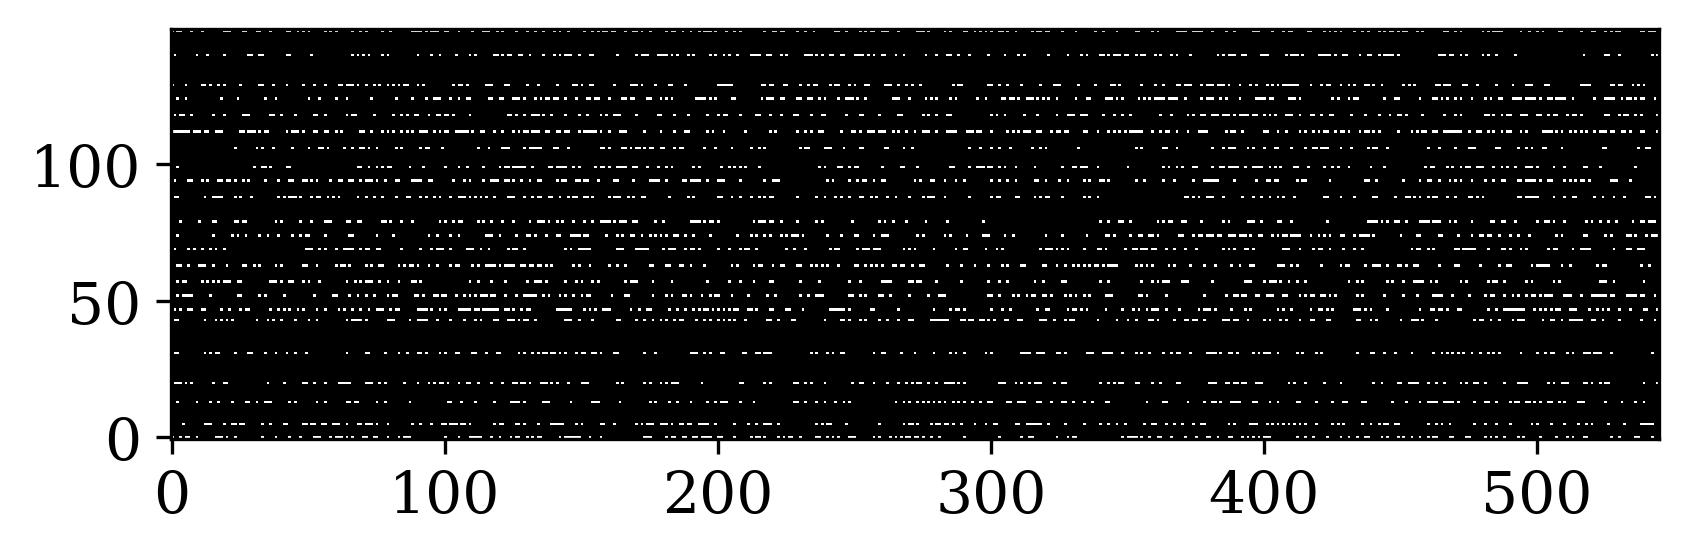
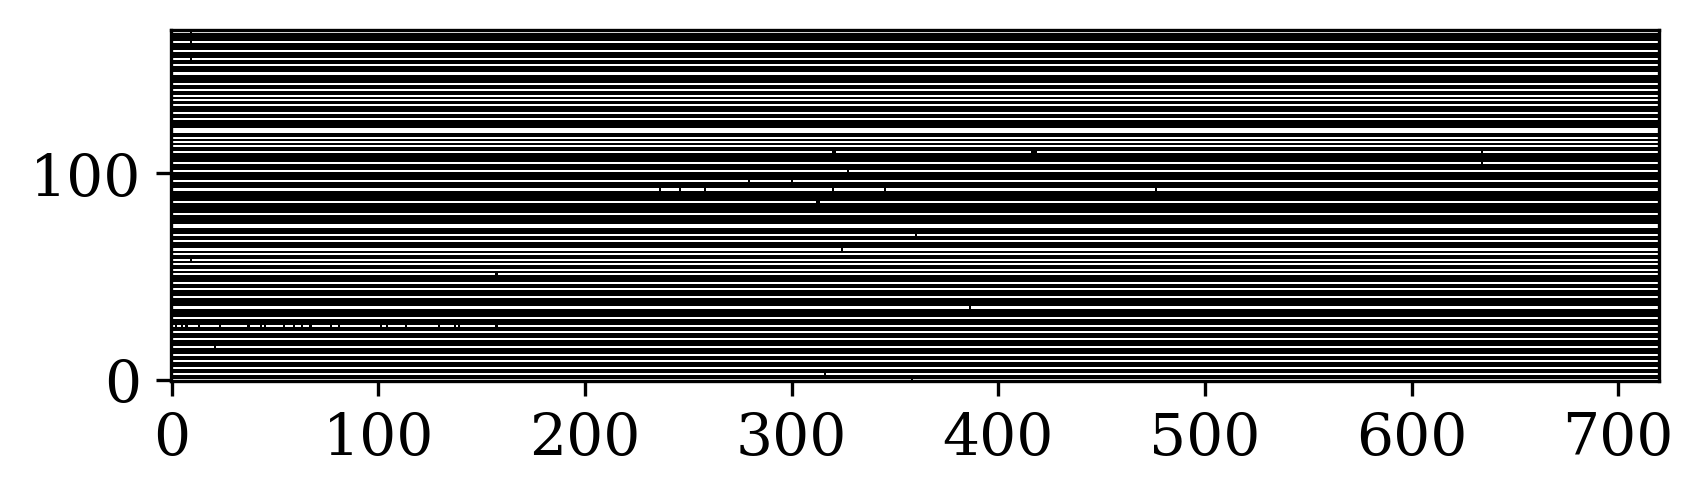
Update it as FFT implementation and it's super fast

Changed region(s): [[0.0, 0.0302, 0.9858, 0.9375]]

diff --git a/ASMNN.py b/ASMNN.py
@@ -6,45 +6,85 @@ import numpy as np
 import pandas as pd
 import time
 
+def fft_four_convs(Dp, Mp, k_cong, k_free):
+    """
+    Compute
+        sum_cong = conv2d(Dp, k_cong)
+        sum_free = conv2d(Dp, k_free)
+        N_cong   = conv2d(Mp, k_cong)
+        N_free   = conv2d(Mp, k_free)
+    all via FFT.
+    
+    Dp, Mp:   (B, C, H, W)
+    k_cong,:  (F, C, Kh, Kw)
+    k_free:   (F, C, Kh, Kw)  (here F=1, but generalizable)
+    returns:  sum_cong, N_cong, sum_free, N_free each of shape (B, F, H-Kh+1, W-Kw+1)
+    """
+    B, C, H, W        = Dp.shape
+    F, _, Kh, Kw      = k_cong.shape
+    Fh, Fw            = H + Kh - 1, W + Kw - 1
+    device, dtype     = Dp.device, Dp.dtype
 
-def fill_space_time_matrix(raw_data, dx = 0.1, dt = 10, lane = 1, data_type = 'speed'):
-    data = raw_data[['milemarker', 'time_unix_fix', f'lane{lane}_{data_type}']].copy()
-    min_milemarker = round(data['milemarker'].min(),0)
-    max_milemarker = round(data['milemarker'].max(),0)
-    min_time_unix = int(data['time_unix_fix'].min())
-    max_time_unix = int(data['time_unix_fix'].max()) + 30
-    milemarkers = np.round(np.arange(min_milemarker, max_milemarker, dx), 2)
-    time_range_unix = np.round(np.arange(min_time_unix, max_time_unix, dt), 2)
-    matrix = pd.DataFrame(index=time_range_unix, columns=milemarkers)
-    for index, row in data.iterrows():
-        time_index = row['time_unix_fix']
-        milemarker_index = row['milemarker']
-        nearest_time = matrix.index.get_indexer([time_index], method='nearest')[0]
-        nearest_milemarker = matrix.columns.get_indexer([milemarker_index], method='nearest')[0]
-        matrix.iloc[nearest_time, nearest_milemarker] = row[f'lane{lane}_{data_type}']
-    return matrix
+    # ——— pad inputs ———
+    Dp_pad = torch.zeros(B, C, Fh, Fw, device=device, dtype=dtype)
+    Mp_pad = torch.zeros(B, C, Fh, Fw, device=device, dtype=dtype)
+    Dp_pad[..., :H, :W] = Dp
+    Mp_pad[..., :H, :W] = Mp
+
+    # ——— pad kernels ———
+    k1_pad = torch.zeros(F, C, Fh, Fw, device=device, dtype=dtype)
+    k2_pad = torch.zeros(F, C, Fh, Fw, device=device, dtype=dtype)
+    k1_pad[..., :Kh, :Kw] = k_cong
+    k2_pad[..., :Kh, :Kw] = k_free
+
+    # ——— FFT both inputs and kernels ———
+    # real→complex FFT over the last two dims
+    Df  = torch.fft.rfftn(Dp_pad, dim=(-2, -1), s=(Fh, Fw))
+    Mf  = torch.fft.rfftn(Mp_pad, dim=(-2, -1), s=(Fh, Fw))
+    Kf1 = torch.fft.rfftn(k1_pad, dim=(-2, -1), s=(Fh, Fw))
+    Kf2 = torch.fft.rfftn(k2_pad, dim=(-2, -1), s=(Fh, Fw))
+
+    # ——— pointwise multiply in freq domain ———
+    Y1 = Df * Kf1    # for sum_cong
+    Y2 = Df * Kf2    # for sum_free
+    Z1 = Mf * Kf1    # for N_cong
+    Z2 = Mf * Kf2    # for N_free
+
+    # ——— inverse FFT back to real ———
+    y1 = torch.fft.irfftn(Y1, dim=(-2, -1), s=(Fh, Fw))
+    y2 = torch.fft.irfftn(Y2, dim=(-2, -1), s=(Fh, Fw))
+    z1 = torch.fft.irfftn(Z1, dim=(-2, -1), s=(Fh, Fw))
+    z2 = torch.fft.irfftn(Z2, dim=(-2, -1), s=(Fh, Fw))
+
+    # ——— crop “valid” region ———
+    oh, ow = H - Kh + 1, W - Kw + 1
+    sum_cong = y1[..., Kh-1:Kh-1+oh, Kw-1:Kw-1+ow]
+    sum_free = y2[..., Kh-1:Kh-1+oh, Kw-1:Kw-1+ow]
+    N_cong   = z1[..., Kh-1:Kh-1+oh, Kw-1:Kw-1+ow]
+    N_free   = z2[..., Kh-1:Kh-1+oh, Kw-1:Kw-1+ow]
+
+    return sum_cong, N_cong, sum_free, N_free
 
 class AdaptiveSmoothing(nn.Module):
     def __init__(self,
-                 smoothing_time_window: float,
-                 smoothing_space_window: float,
+                 kernel_time_window: float,
+                 kernel_space_window: float,
                  dx: float,
                  dt: float,
                  init_delta: float = 0.10, # mile
                  init_tau: float = 9.0, # seconds
-                 init_c_cong: float = -12.0,
-                 init_c_free: float = 45.0,
-                 init_v_thr: float = 30.0,
+                 init_c_cong: float = 12.0,
+                 init_c_free: float = -45.0,
+                 init_v_thr: float = 40.0,
                  init_v_delta: float = 10.0):
         super().__init__()
-        self.half_t = int(smoothing_time_window / dt)
-        self.half_x = int(smoothing_space_window / dx)
+        self.size_t = int(kernel_time_window / dt)
+        self.size_x = int(kernel_space_window / dx)
         self.dt = dt
         self.dx = dx
 
-        t_offs = torch.arange(-self.half_t, self.half_t + 1) * dt
-        x_offs = torch.arange(-self.half_x, self.half_x + 1) * dx
-        print(f"t_offs: {t_offs}, x_offs: {x_offs}")
+        t_offs = torch.arange(-self.size_t, self.size_t + 1) * dt
+        x_offs = torch.arange(-self.size_x, self.size_x + 1) * dx
         T, X = torch.meshgrid(t_offs, x_offs, indexing='ij')
         self.register_buffer('T_offsets', T.float())
         self.register_buffer('X_offsets', X.float())
@@ -64,9 +104,6 @@ class AdaptiveSmoothing(nn.Module):
             raw_data = raw_data.unsqueeze(1)
 
         mask = (~raw_data.isnan()).float()
-        plt.imshow(mask[0, 0], cmap='gray', interpolation='nearest', origin='lower')
-        plt.savefig('figures/mask.png', dpi=300, bbox_inches='tight')
-        plt.close()
         data = torch.nan_to_num(raw_data, nan=0.0)
 
         c_cong_s = self.c_cong / 3600.0
@@ -81,15 +118,16 @@ class AdaptiveSmoothing(nn.Module):
         k_cong = k_cong.unsqueeze(0).unsqueeze(0)  # (1,1,Kt,Kx)
         k_free = k_free.unsqueeze(0).unsqueeze(0)
 
-        pad = (self.half_x, self.half_x, self.half_t, self.half_t)
-        print(f"pad: {pad}")
+        pad = (self.size_x, self.size_x, self.size_t, self.size_t)
         Dp = F.pad(data, pad, value=0.0)
         Mp = F.pad(mask, pad, value=0.0)
 
-        sum_cong = F.conv2d(Dp, k_cong)
-        N_cong   = F.conv2d(Mp, k_cong)
-        sum_free = F.conv2d(Dp, k_free)
-        N_free   = F.conv2d(Mp, k_free)
+        # sum_cong = F.conv2d(Dp, k_cong)
+        # N_cong   = F.conv2d(Mp, k_cong)
+        # sum_free = F.conv2d(Dp, k_free)
+        # N_free   = F.conv2d(Mp, k_free)
+        # use FFT to compute the convolutions
+        sum_cong, N_cong, sum_free, N_free = fft_four_convs(Dp, Mp, k_cong, k_free)
 
         v_cong = sum_cong / (N_cong)
         v_free = sum_free / (N_free)
@@ -108,28 +146,19 @@ class AdaptiveSmoothing(nn.Module):
 def main():
     # device = torch.device("cuda" if torch.cuda.is_available() else "cpu")
     device = torch.device("cpu")
-    # # raw_data = pd.read_csv('data/2023-10-26.csv')
-    # raw_data = pd.read_csv('data/2025-04-09.csv', low_memory=False)
-    # speed = fill_space_time_matrix(raw_data, dx = 0.1, dt = 30, lane = 2, data_type = 'speed')
-    # output = speed.T.values.copy()
-    # # make output to be float32
-    # output = output.astype(np.float32)
-    # np.save('data/speed.npy', output)
     speed = np.load('data/speed.npy')
     # make the data less than 0 to be nan
     speed[speed < 0] = np.nan
     # get the size of the speed
     time_size, space_size = speed.shape
-    # print(f"Time size: {time_size}, Space size: {space_size}")
     # Hyperparameters
     dx = 0.1                   # distance per cell
     dt = 30.0                    # time per cell
-    smoothing_time_window = time_size * dt  # seconds
-    smoothing_space_window = space_size * dx  # same units as dx
-    print(f"Smoothing time window: {smoothing_time_window}, Smoothing space window: {smoothing_space_window}")
+    kernel_time_window = time_size * dt  # seconds
+    kernel_space_window = space_size * dx  # same units as dx
     # Instantiate the model
-    model = AdaptiveSmoothing(smoothing_time_window,
-                              smoothing_space_window,
+    model = AdaptiveSmoothing(kernel_time_window,
+                              kernel_space_window,
                               dx, dt).to(device)
     model.eval()
     plt.figure(figsize=(12, 6))
@@ -138,7 +167,6 @@ def main():
     plt.colorbar(label='Speed')
     plt.title('Raw Data')
     plt.tight_layout()
-    # plt.gca().invert_yaxis()
     plt.savefig('figures/pre_speed.pdf', dpi=300, bbox_inches='tight')
     plt.close()
     raw = torch.from_numpy(speed).to(device)
@@ -148,11 +176,11 @@ def main():
     sm = smoothed[0].cpu().numpy()
     end_time = time.time()
     print(f"Execution time: {end_time - start_time:.2f} seconds")
-    # see if the smoothed data is nan
-    if np.isnan(sm).any():
-        print("Smoothed data contains NaN values.")
-    else:
-        print("Smoothed data does not contain NaN values.")
+    # # see if the smoothed data is nan
+    # if np.isnan(sm).any():
+    #     print("Smoothed data contains NaN values.")
+    # else:
+    #     print("Smoothed data does not contain NaN values.")
     plt.figure(figsize=(12, 6))
     # make the font to be elegant
     plt.rcParams.update({'font.size': 14, 'font.family': 'serif'})

diff --git a/pre-processing.py b/pre-processing.py
@@ -1,0 +1,27 @@
+import numpy as np
+import pandas as pd
+
+
+def fill_space_time_matrix(raw_data, dx = 0.1, dt = 10, lane = 1, data_type = 'speed'):
+    data = raw_data[['milemarker', 'time_unix_fix', f'lane{lane}_{data_type}']].copy()
+    min_milemarker = round(data['milemarker'].min(),0)
+    max_milemarker = round(data['milemarker'].max(),0)
+    min_time_unix = int(data['time_unix_fix'].min())
+    max_time_unix = int(data['time_unix_fix'].max()) + 30
+    milemarkers = np.round(np.arange(min_milemarker, max_milemarker, dx), 2)
+    time_range_unix = np.round(np.arange(min_time_unix, max_time_unix, dt), 2)
+    matrix = pd.DataFrame(index=time_range_unix, columns=milemarkers)
+    for index, row in data.iterrows():
+        time_index = row['time_unix_fix']
+        milemarker_index = row['milemarker']
+        nearest_time = matrix.index.get_indexer([time_index], method='nearest')[0]
+        nearest_milemarker = matrix.columns.get_indexer([milemarker_index], method='nearest')[0]
+        matrix.iloc[nearest_time, nearest_milemarker] = row[f'lane{lane}_{data_type}']
+    return matrix
+
+raw_data = pd.read_csv('data/2023-10-26.csv',low_memory=False)
+speed = fill_space_time_matrix(raw_data, dx = 0.1, dt = 30, lane = 1, data_type = 'speed')
+output = speed.T.values.copy()
+# make output to be float32
+output = output.astype(np.float32)
+np.save('data/speed.npy', output)